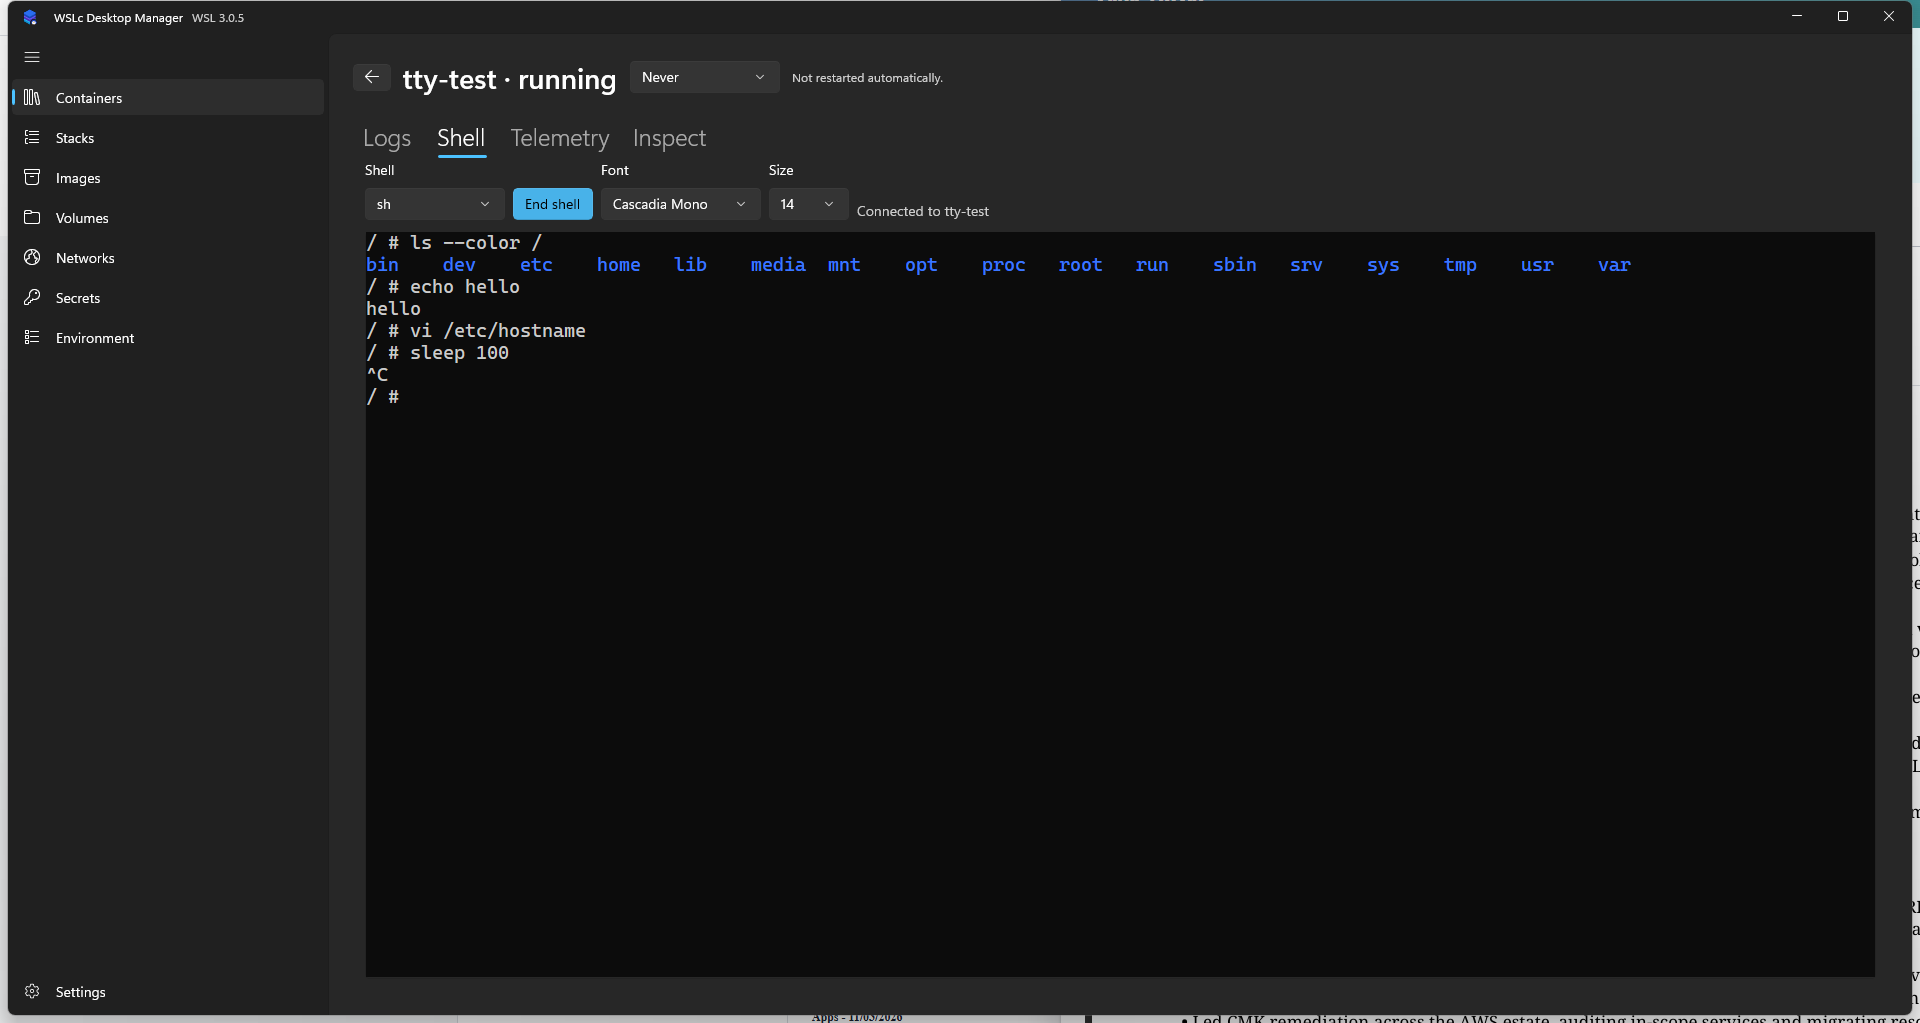
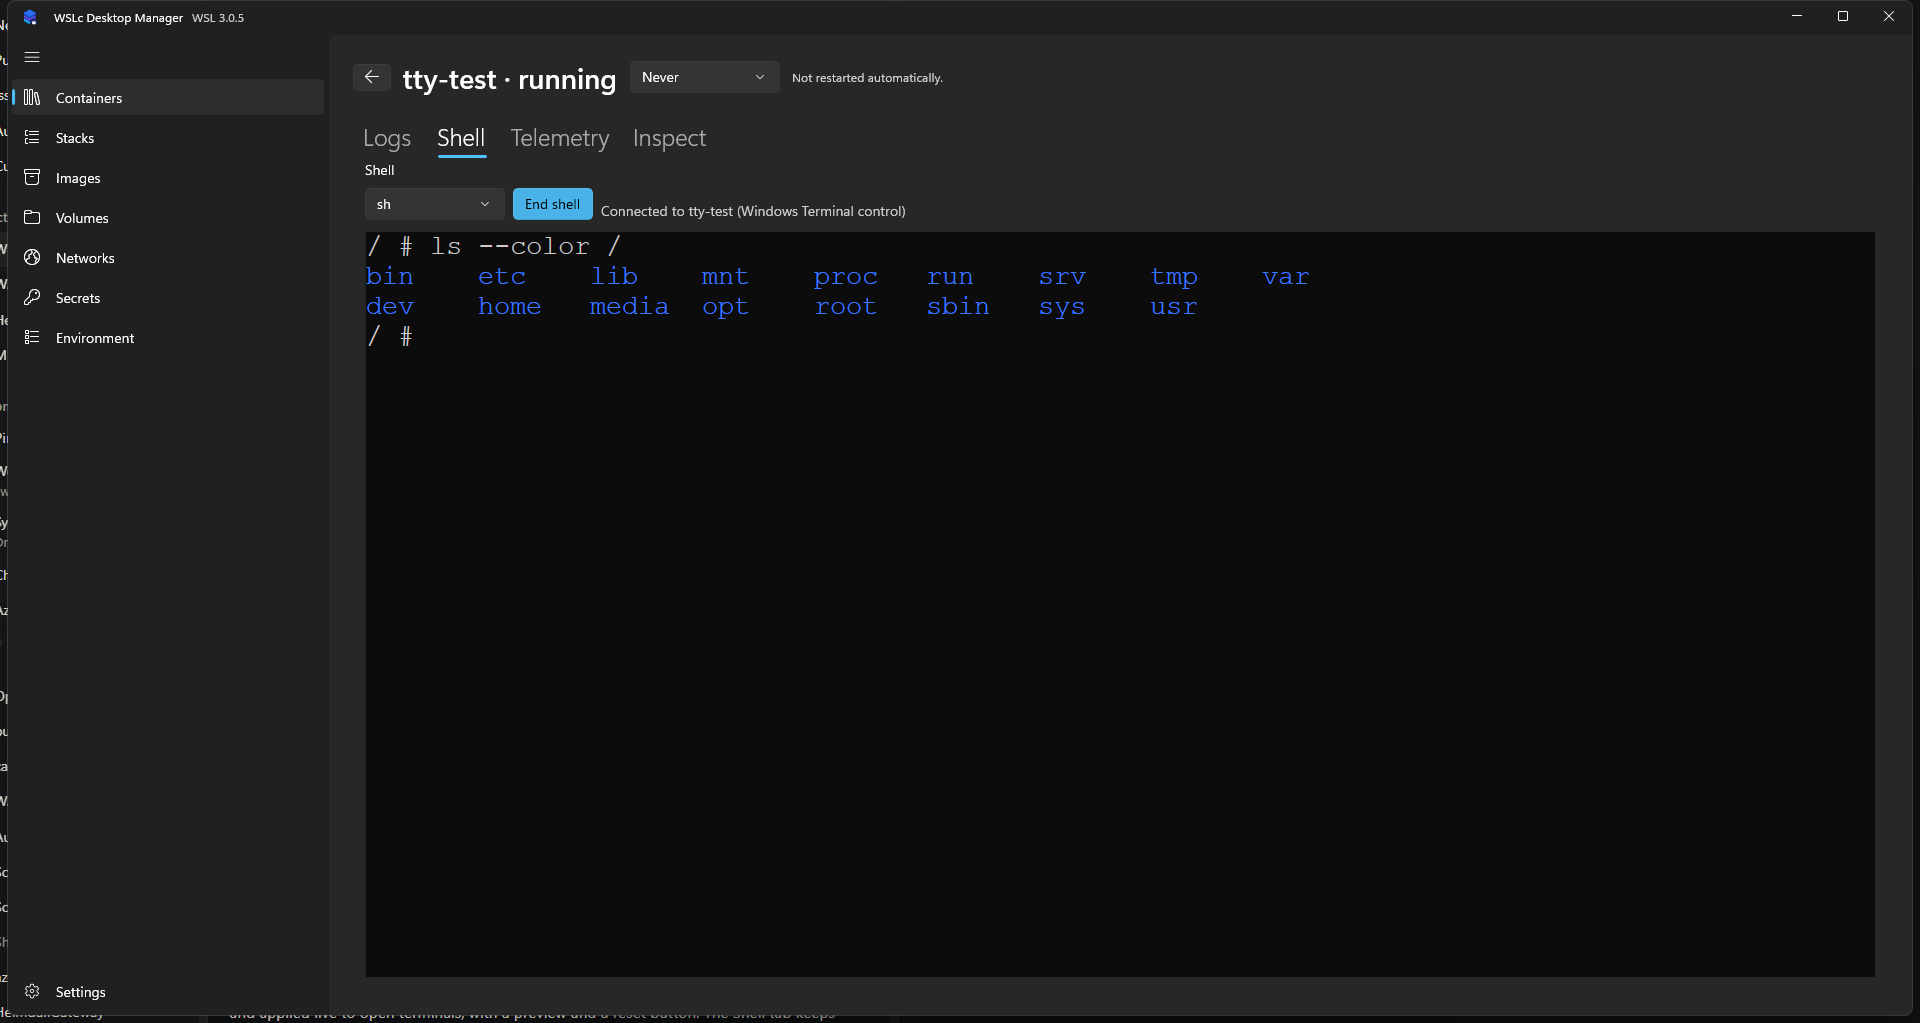
Move terminal font settings to Settings page and persist them

diff --git a/src/WslcDesktop/Views/ContainerDetailPage.xaml b/src/WslcDesktop/Views/ContainerDetailPage.xaml
@@ -106,8 +106,6 @@
                             <x:String>ash</x:String>
                         </ComboBox>
                         <Button x:Name="ShellToggle" Click="ShellToggle_Click" Content="Start shell" Style="{StaticResource AccentButtonStyle}" VerticalAlignment="Bottom" />
-                        <ComboBox x:Name="FontPicker" AutomationProperties.Name="Terminal font" Header="Font" SelectionChanged="Font_Changed" Width="160" />
-                        <ComboBox x:Name="FontSizePicker" AutomationProperties.Name="Terminal font size" Header="Size" SelectionChanged="Font_Changed" Width="80" />
                         <TextBlock x:Name="ShellStatus" Foreground="{ThemeResource TextFillColorSecondaryBrush}" VerticalAlignment="Bottom" />
                     </StackPanel>
                     <controls:TerminalView x:Name="Terminal" Grid.Row="1" Visibility="Collapsed" />

diff --git a/src/WslcDesktop/Views/SettingsPage.xaml.cs b/src/WslcDesktop/Views/SettingsPage.xaml.cs
@@ -34,6 +34,7 @@ public sealed partial class SettingsPage : Page
         _inputs.Clear();
         _errors.Clear();
         BuildAppearanceCard();
+        BuildTerminalCard();
         BuildYamlCard();
         BuildAppPreferencesCard();
         BuildUpdatesCard();
@@ -160,6 +161,139 @@ public sealed partial class SettingsPage : Page
         rows.Children.Add(custom);
         rows.Children.Add(InspectUi.Secondary("Off follows the Windows accent. Custom colors are adjusted for readable light and dark controls."));
         rows.Children.Add(choose);
+        Cards.Children.Add(card);
+    }
+
+    private static List<string> InstalledFontNames()
+    {
+        var names = new List<string>();
+        foreach (var (hive, view) in new[] { (Microsoft.Win32.Registry.LocalMachine, "HKLM"), (Microsoft.Win32.Registry.CurrentUser, "HKCU") })
+        {
+            try
+            {
+                using var key = hive.OpenSubKey(@"SOFTWARE\Microsoft\Windows NT\CurrentVersion\Fonts");
+                if (key is not null)
+                {
+                    names.AddRange(key.GetValueNames());
+                }
+            }
+            catch (Exception)
+            {
+                // An unreadable hive just means fewer fonts are offered.
+            }
+        }
+
+        return names;
+    }
+
+    private void BuildTerminalCard()
+    {
+        var settings = App.Host.Settings;
+        var card = InspectUi.Card("Terminal", out var rows);
+        rows.Spacing = 12;
+        rows.Children.Add(InspectUi.Secondary("Font for the Shell tab's terminal. Changes apply immediately to open terminals and are saved for the next launch."));
+
+        var fonts = TerminalProtocol.AvailableFonts(InstalledFontNames(), settings.TerminalFontFamily);
+        var font = new ComboBox
+        {
+            Header = "Font",
+            ItemsSource = fonts,
+            HorizontalAlignment = HorizontalAlignment.Stretch,
+        };
+        var size = new NumberBox
+        {
+            Header = "Size",
+            Minimum = TerminalProtocol.MinFontSize,
+            Maximum = TerminalProtocol.MaxFontSize,
+            SmallChange = 1,
+            SpinButtonPlacementMode = NumberBoxSpinButtonPlacementMode.Inline,
+            HorizontalAlignment = HorizontalAlignment.Left,
+            Width = 160,
+        };
+        Microsoft.UI.Xaml.Automation.AutomationProperties.SetName(font, "Terminal font");
+        Microsoft.UI.Xaml.Automation.AutomationProperties.SetName(size, "Terminal font size");
+        var preview = new TextBlock
+        {
+            Text = "user@wslc:~$ ls --color\nbin  dev  etc  home  usr  var\n0O 1lI {}[]() ->  =>  !=",
+            Padding = new Thickness(12),
+        };
+        var previewBox = new Border
+        {
+            Background = new Microsoft.UI.Xaml.Media.SolidColorBrush(Windows.UI.Color.FromArgb(255, 0x0C, 0x0C, 0x0C)),
+            CornerRadius = new CornerRadius(4),
+            Child = preview,
+        };
+        preview.Foreground = new Microsoft.UI.Xaml.Media.SolidColorBrush(Windows.UI.Color.FromArgb(255, 0xCC, 0xCC, 0xCC));
+        var reset = new Button { Content = "Reset to defaults", HorizontalAlignment = HorizontalAlignment.Left };
+
+        var syncing = false;
+        void Show()
+        {
+            syncing = true;
+            if (!fonts.Contains(settings.TerminalFontFamily, StringComparer.OrdinalIgnoreCase))
+            {
+                fonts.Insert(0, settings.TerminalFontFamily);
+                font.ItemsSource = null;
+                font.ItemsSource = fonts;
+            }
+
+            font.SelectedItem = fonts.First(f => f.Equals(settings.TerminalFontFamily, StringComparison.OrdinalIgnoreCase));
+            size.Value = settings.TerminalFontSize;
+            preview.FontFamily = new Microsoft.UI.Xaml.Media.FontFamily($"{settings.TerminalFontFamily}, Consolas");
+            preview.FontSize = settings.TerminalFontSize;
+            syncing = false;
+        }
+
+        void Commit()
+        {
+            try
+            {
+                settings.Save();
+                settings.TerminalChanged?.Invoke();
+            }
+            catch (Exception ex)
+            {
+                Status("Couldn't save terminal settings", ex.Message, InfoBarSeverity.Error);
+            }
+
+            Show();
+        }
+
+        font.SelectionChanged += (_, _) =>
+        {
+            if (!syncing && font.SelectedItem is string f)
+            {
+                settings.TerminalFontFamily = TerminalProtocol.NormalizeFont(f);
+                Commit();
+            }
+        };
+        size.ValueChanged += (_, args) =>
+        {
+            if (syncing)
+            {
+                return;
+            }
+
+            if (double.IsNaN(args.NewValue))
+            {
+                Show();
+                return;
+            }
+
+            settings.TerminalFontSize = TerminalProtocol.ClampFontSize((int)Math.Round(args.NewValue));
+            Commit();
+        };
+        reset.Click += (_, _) =>
+        {
+            settings.ResetTerminal();
+            Commit();
+        };
+
+        rows.Children.Add(font);
+        rows.Children.Add(size);
+        rows.Children.Add(previewBox);
+        rows.Children.Add(reset);
+        Show();
         Cards.Children.Add(card);
     }
 

diff --git a/tests/WslcDesktop.Tests/TerminalTests.cs b/tests/WslcDesktop.Tests/TerminalTests.cs
@@ -96,4 +96,44 @@ public class TerminalTests
     [Fact]
     public void ConPty_MissingCommandThrows() =>
         Assert.Throws<InvalidOperationException>(() => ConPtySession.Start("definitely-not-a-command-xyz", 80, 24, (_, _) => { }, _ => { }));
-}
+
+    [Fact]
+    public void AvailableFonts_FiltersInstalledAndKeepsCurrent()
+    {
+        string[] installed = ["Consolas (TrueType)", "Cascadia Mono (TrueType)", "Cascadia Mono Light (TrueType)", "Arial (TrueType)"];
+        Assert.Equal(["Cascadia Mono", "Consolas"], TerminalProtocol.AvailableFonts(installed, "Consolas"));
+        Assert.Equal("My Font", TerminalProtocol.AvailableFonts(installed, "My Font")[0]);
+        Assert.Equal(["Consolas"], TerminalProtocol.AvailableFonts([], "Consolas"));
+        Assert.DoesNotContain("Cascadia Code", TerminalProtocol.AvailableFonts(["Cascadia CodeX (TrueType)"], "Consolas"));
+    }
+
+    [Theory]
+    [InlineData(1, 8)]
+    [InlineData(14, 14)]
+    [InlineData(99, 32)]
+    public void ClampFontSize_BoundsValues(int input, int expected) => Assert.Equal(expected, TerminalProtocol.ClampFontSize(input));
+
+    [Fact]
+    public void TerminalSettings_RoundTripClampAndReset()
+    {
+        var path = Path.Combine(Path.GetTempPath(), "wslcdesktop-term-" + Guid.NewGuid().ToString("N"), "settings.json");
+        try
+        {
+            Assert.Equal(("Cascadia Mono", 14), (AppSettings.Load(path).TerminalFontFamily, AppSettings.Load(path).TerminalFontSize));
+            new AppSettings { TerminalFontFamily = "Consolas", TerminalFontSize = 18 }.Save(path);
+            var s = AppSettings.Load(path);
+            Assert.Equal(("Consolas", 18), (s.TerminalFontFamily, s.TerminalFontSize));
+
+            new AppSettings { TerminalFontFamily = " ", TerminalFontSize = 500 }.Save(path);
+            s = AppSettings.Load(path);
+            Assert.Equal(("Cascadia Mono", 32), (s.TerminalFontFamily, s.TerminalFontSize));
+
+            s.TerminalFontFamily = "Hack";
+            s.ResetTerminal();
+            Assert.Equal(("Cascadia Mono", 14), (s.TerminalFontFamily, s.TerminalFontSize));
+        }
+        finally
+        {
+            Directory.Delete(Path.GetDirectoryName(path)!, true);
+        }
+    }}

diff --git a/src/WslcDesktop/Views/ContainerDetailPage.xaml.cs b/src/WslcDesktop/Views/ContainerDetailPage.xaml.cs
@@ -21,7 +21,8 @@ public sealed partial class ContainerDetailPage : Page
         Loaded += (_, _) =>
         {
             _ready = true;
-            InitShellPickers();
+            ApplyTerminalFont();
+            App.Host.Settings.TerminalChanged += ApplyTerminalFont;
             App.Host.Telemetry.Updated += OnTelemetryUpdated;
             App.Host.Monitor.Updated += OnTelemetryUpdated;
             _wasRunning = IsRunning;
@@ -36,6 +37,7 @@ public sealed partial class ContainerDetailPage : Page
         {
             App.Host.Telemetry.Updated -= OnTelemetryUpdated;
             App.Host.Monitor.Updated -= OnTelemetryUpdated;
+            App.Host.Settings.TerminalChanged -= ApplyTerminalFont;
             _logCts?.Cancel();
             StopShell();
         };
@@ -329,32 +331,9 @@ public sealed partial class ContainerDetailPage : Page
 
     // Shell
 
-    private static string s_terminalFont = TerminalProtocol.Fonts[0];
-    private static int s_terminalFontSize = 14;
     private bool _terminalActive;
-    private bool _syncingFont;
 
-    private void InitShellPickers()
-    {
-        _syncingFont = true;
-        FontPicker.ItemsSource = TerminalProtocol.Fonts.ToList();
-        FontPicker.SelectedIndex = Math.Max(0, Array.IndexOf(TerminalProtocol.Fonts, s_terminalFont));
-        FontSizePicker.ItemsSource = TerminalProtocol.FontSizes.Select(s => s.ToString()).ToList();
-        FontSizePicker.SelectedIndex = Math.Max(0, Array.IndexOf(TerminalProtocol.FontSizes, s_terminalFontSize));
-        _syncingFont = false;
-        Terminal.SetFont(s_terminalFont, s_terminalFontSize);
-    }
-
-    private void Font_Changed(object sender, SelectionChangedEventArgs e)
-    {
-        if (_syncingFont || FontPicker.SelectedItem is not string font || !int.TryParse(FontSizePicker.SelectedItem as string, out var size))
-        {
-            return;
-        }
-
-        (s_terminalFont, s_terminalFontSize) = (font, size);
-        Terminal.SetFont(font, size);
-    }
+    private void ApplyTerminalFont() => Terminal.SetFont(App.Host.Settings.TerminalFontFamily, App.Host.Settings.TerminalFontSize);
 
     private bool ShellRunning => _terminalActive || _shell is not null;
 

diff --git a/src/WslcDesktop/Services/TerminalProtocol.cs b/src/WslcDesktop/Services/TerminalProtocol.cs
@@ -8,8 +8,41 @@ public static class TerminalProtocol
     public const short DefaultColumns = 120;
     public const short DefaultRows = 30;
 
-    public static readonly string[] Fonts = ["Cascadia Mono", "Cascadia Code", "Consolas", "Courier New"];
-    public static readonly int[] FontSizes = [11, 12, 13, 14, 16, 18, 20];
+    public const string DefaultFont = "Cascadia Mono";
+    public const int DefaultFontSize = 14;
+    public const int MinFontSize = 8;
+    public const int MaxFontSize = 32;
+
+    /// <summary>Well-known monospace families offered when they're installed.</summary>
+    public static readonly string[] CandidateFonts =
+    [
+        "Cascadia Mono", "Cascadia Code", "Consolas", "Courier New", "Lucida Console", "JetBrains Mono", "Fira Code",
+        "Source Code Pro", "Hack", "Iosevka", "MesloLGS NF", "Roboto Mono", "Ubuntu Mono", "Inconsolata", "Cousine",
+    ];
+
+    public static int ClampFontSize(int size) => Math.Clamp(size, MinFontSize, MaxFontSize);
+
+    public static string NormalizeFont(string? family) => string.IsNullOrWhiteSpace(family) ? DefaultFont : family.Trim();
+
+    /// <summary>The candidate fonts present in <paramref name="installed"/> (registry-style names such as "Consolas (TrueType)"), always including <paramref name="current"/> and falling back to Consolas.</summary>
+    public static List<string> AvailableFonts(IEnumerable<string> installed, string current)
+    {
+        var names = installed.ToList();
+        bool Has(string family) => names.Any(n => n.StartsWith(family, StringComparison.OrdinalIgnoreCase)
+            && (n.Length == family.Length || n[family.Length] is ' ' or '('));
+        var result = CandidateFonts.Where(Has).ToList();
+        if (result.Count == 0)
+        {
+            result.Add("Consolas");
+        }
+
+        if (!result.Contains(current, StringComparer.OrdinalIgnoreCase))
+        {
+            result.Insert(0, current);
+        }
+
+        return result;
+    }
 
     /// <summary>Quotes one argument per the Windows <c>CommandLineToArgvW</c> rules.</summary>
     public static string QuoteArgument(string arg)

diff --git a/src/WslcDesktop/Services/AppSettings.cs b/src/WslcDesktop/Services/AppSettings.cs
@@ -26,6 +26,20 @@ public sealed class AppSettings
 
     public string Theme { get; set; } = "System";
 
+    public string TerminalFontFamily { get; set; } = TerminalProtocol.DefaultFont;
+
+    public int TerminalFontSize { get; set; } = TerminalProtocol.DefaultFontSize;
+
+    /// <summary>Raised after the terminal font changes so open terminals can restyle.</summary>
+    [System.Text.Json.Serialization.JsonIgnore]
+    public Action? TerminalChanged { get; set; }
+
+    public void ResetTerminal()
+    {
+        TerminalFontFamily = TerminalProtocol.DefaultFont;
+        TerminalFontSize = TerminalProtocol.DefaultFontSize;
+    }
+
     // Null follows Windows; custom colors are opaque #RRGGBB.
     public string? AccentColor { get; set; }
 
@@ -51,6 +65,8 @@ public sealed class AppSettings
                         s.Theme = "System";
                     }
 
+                    s.TerminalFontFamily = TerminalProtocol.NormalizeFont(s.TerminalFontFamily);
+                    s.TerminalFontSize = TerminalProtocol.ClampFontSize(s.TerminalFontSize);
                     s.AccentColor = AccentPalette.Normalize(s.AccentColor);
                     return s;
                 }

diff --git a/src/WslcDesktop/Controls/TerminalView.xaml.cs b/src/WslcDesktop/Controls/TerminalView.xaml.cs
@@ -33,8 +33,8 @@ public sealed partial class TerminalView : UserControl
     private int _pixelWidth, _pixelHeight;
     private short _columns = TerminalProtocol.DefaultColumns;
     private short _rows = TerminalProtocol.DefaultRows;
-    private string _fontFamily = TerminalProtocol.Fonts[0];
-    private int _fontSize = 14;
+    private string _fontFamily = App.Host.Settings.TerminalFontFamily;
+    private int _fontSize = App.Host.Settings.TerminalFontSize;
 
     // Native callbacks must stay rooted for the lifetime of the terminal.
     private NativeTerminal.WriteCallback? _write;

diff --git a/docs/settings.md b/docs/settings.md
@@ -12,6 +12,12 @@ Changes apply immediately across the app and persist for the next launch. Custom
 controls in both themes; Windows high-contrast colors remain in control when a contrast theme is enabled.
 Appearance preferences are saved in `%LOCALAPPDATA%\WslcDesktop\settings.json`, not WSLc's `settings.yaml`.
 
+## Terminal
+
+![Terminal settings](/screenshots/settings-terminal.png)
+
+Choose the **Font** (installed monospace fonts such as Cascadia Mono, Consolas and Courier New) and **Size** (8 to 32) for the Shell tab's terminal. The preview updates as you change them, open terminals restyle immediately, and the choice is saved in `settings.json` for the next launch. **Reset to defaults** restores Cascadia Mono at size 14.
+
 ## App preferences
 
 **Minimize to tray** hides the minimized window from the taskbar. **Close button minimizes to tray** makes the close button

diff --git a/docs/features/container-details.md b/docs/features/container-details.md
@@ -22,7 +22,7 @@ Pick a shell (such as `sh`), choose **Start shell** and type straight into the t
 ![vi in the shell](/screenshots/container-shell-vi.png)
 
 - **Copy and paste:** select text to copy with Ctrl+Shift+C (or Ctrl+C while text is selected); paste with Ctrl+V, Ctrl+Shift+V or right-click.
-- **Font:** the **Font** and **Size** pickers change the terminal font. The choice lasts until the app closes.
+- **Font:** set the terminal font and size under **Settings > Terminal** (see [Settings](/settings)). Changes apply to open terminals and are saved.
 - **Fallback:** if the terminal can't start (for example the native terminal library is missing), the tab falls back to the simple line-based shell, which has no TTY.
 - **Secrets:** the raw terminal stream isn't passed through secret redaction, so values you print in the shell are shown as-is.
 
